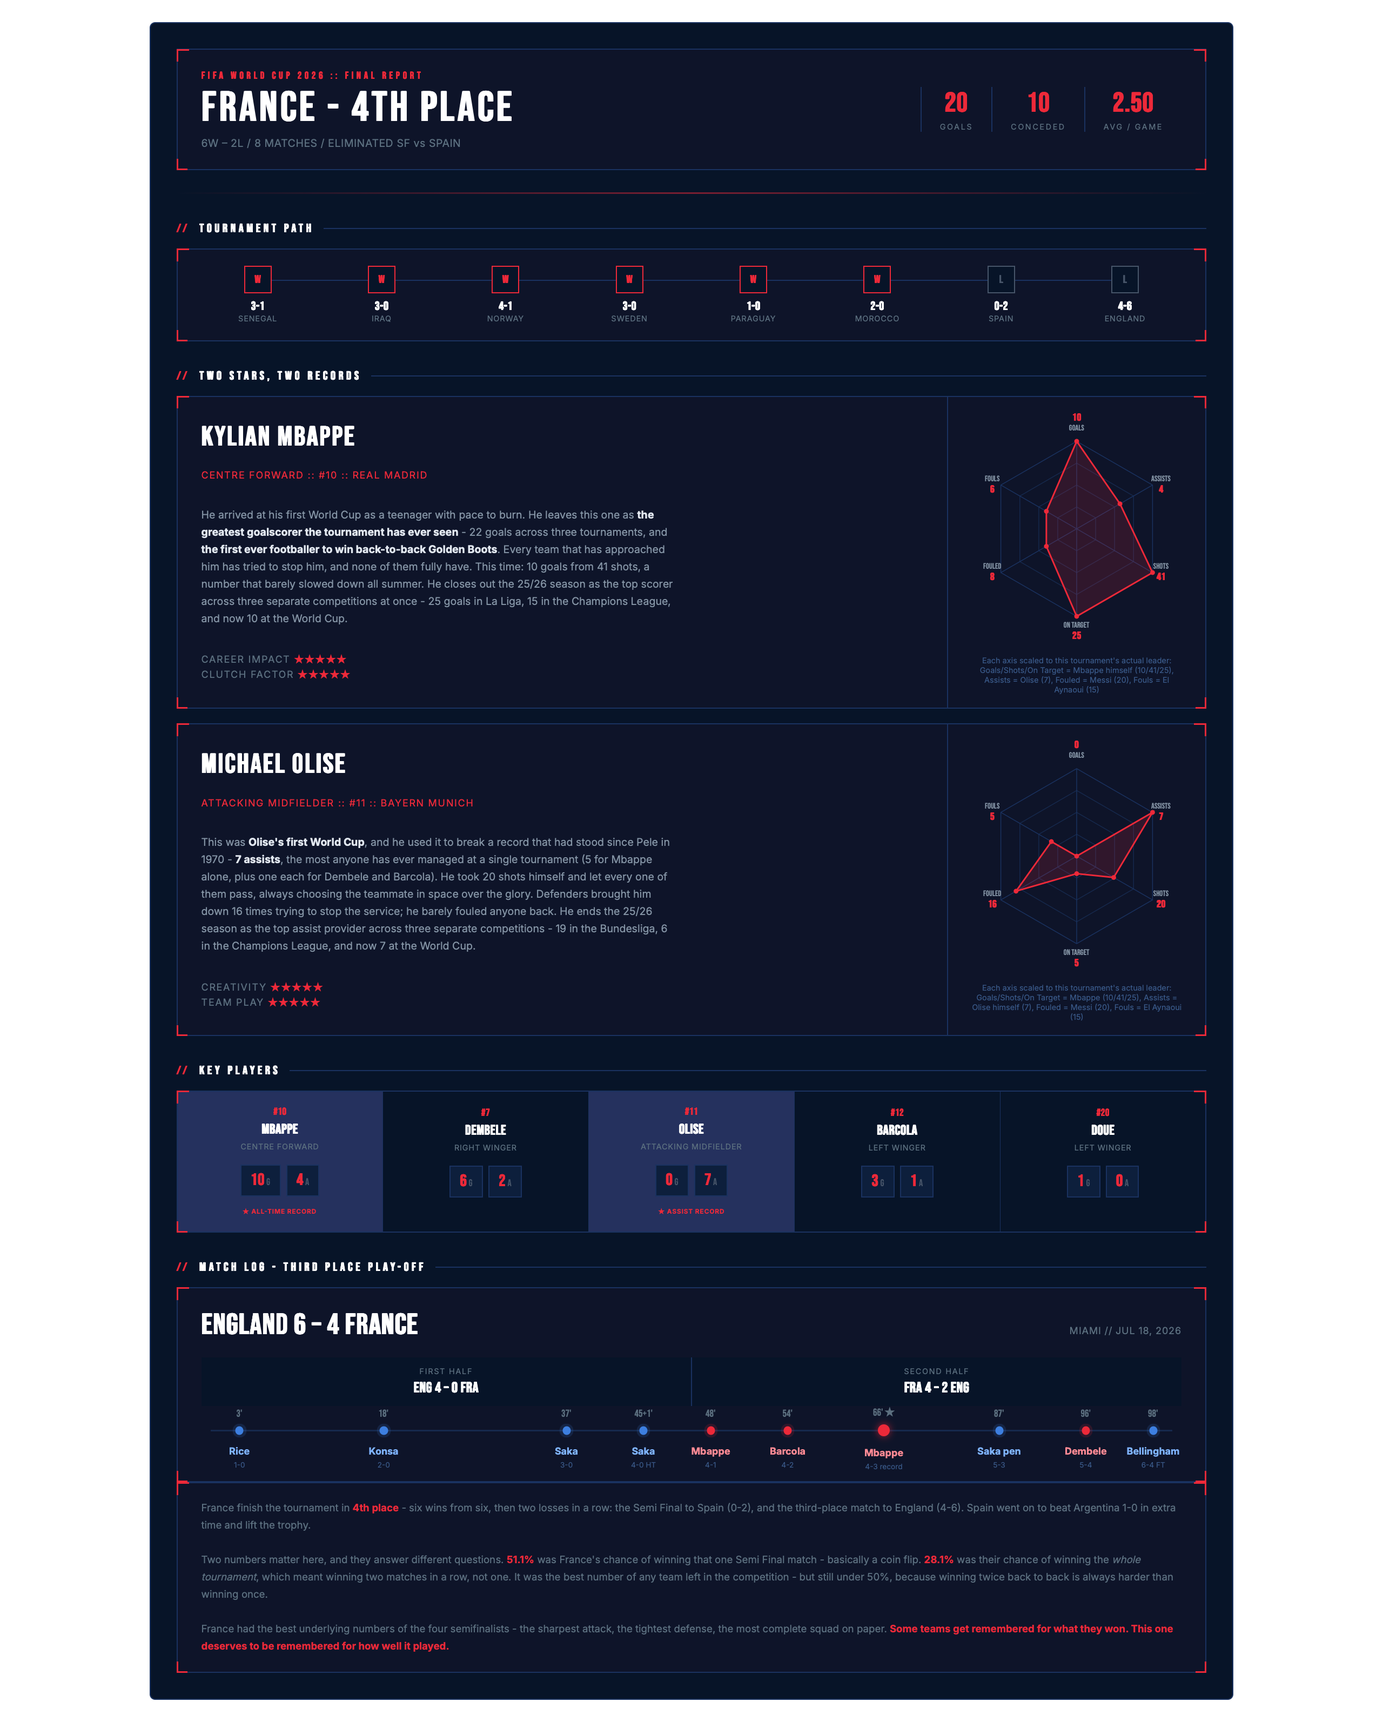
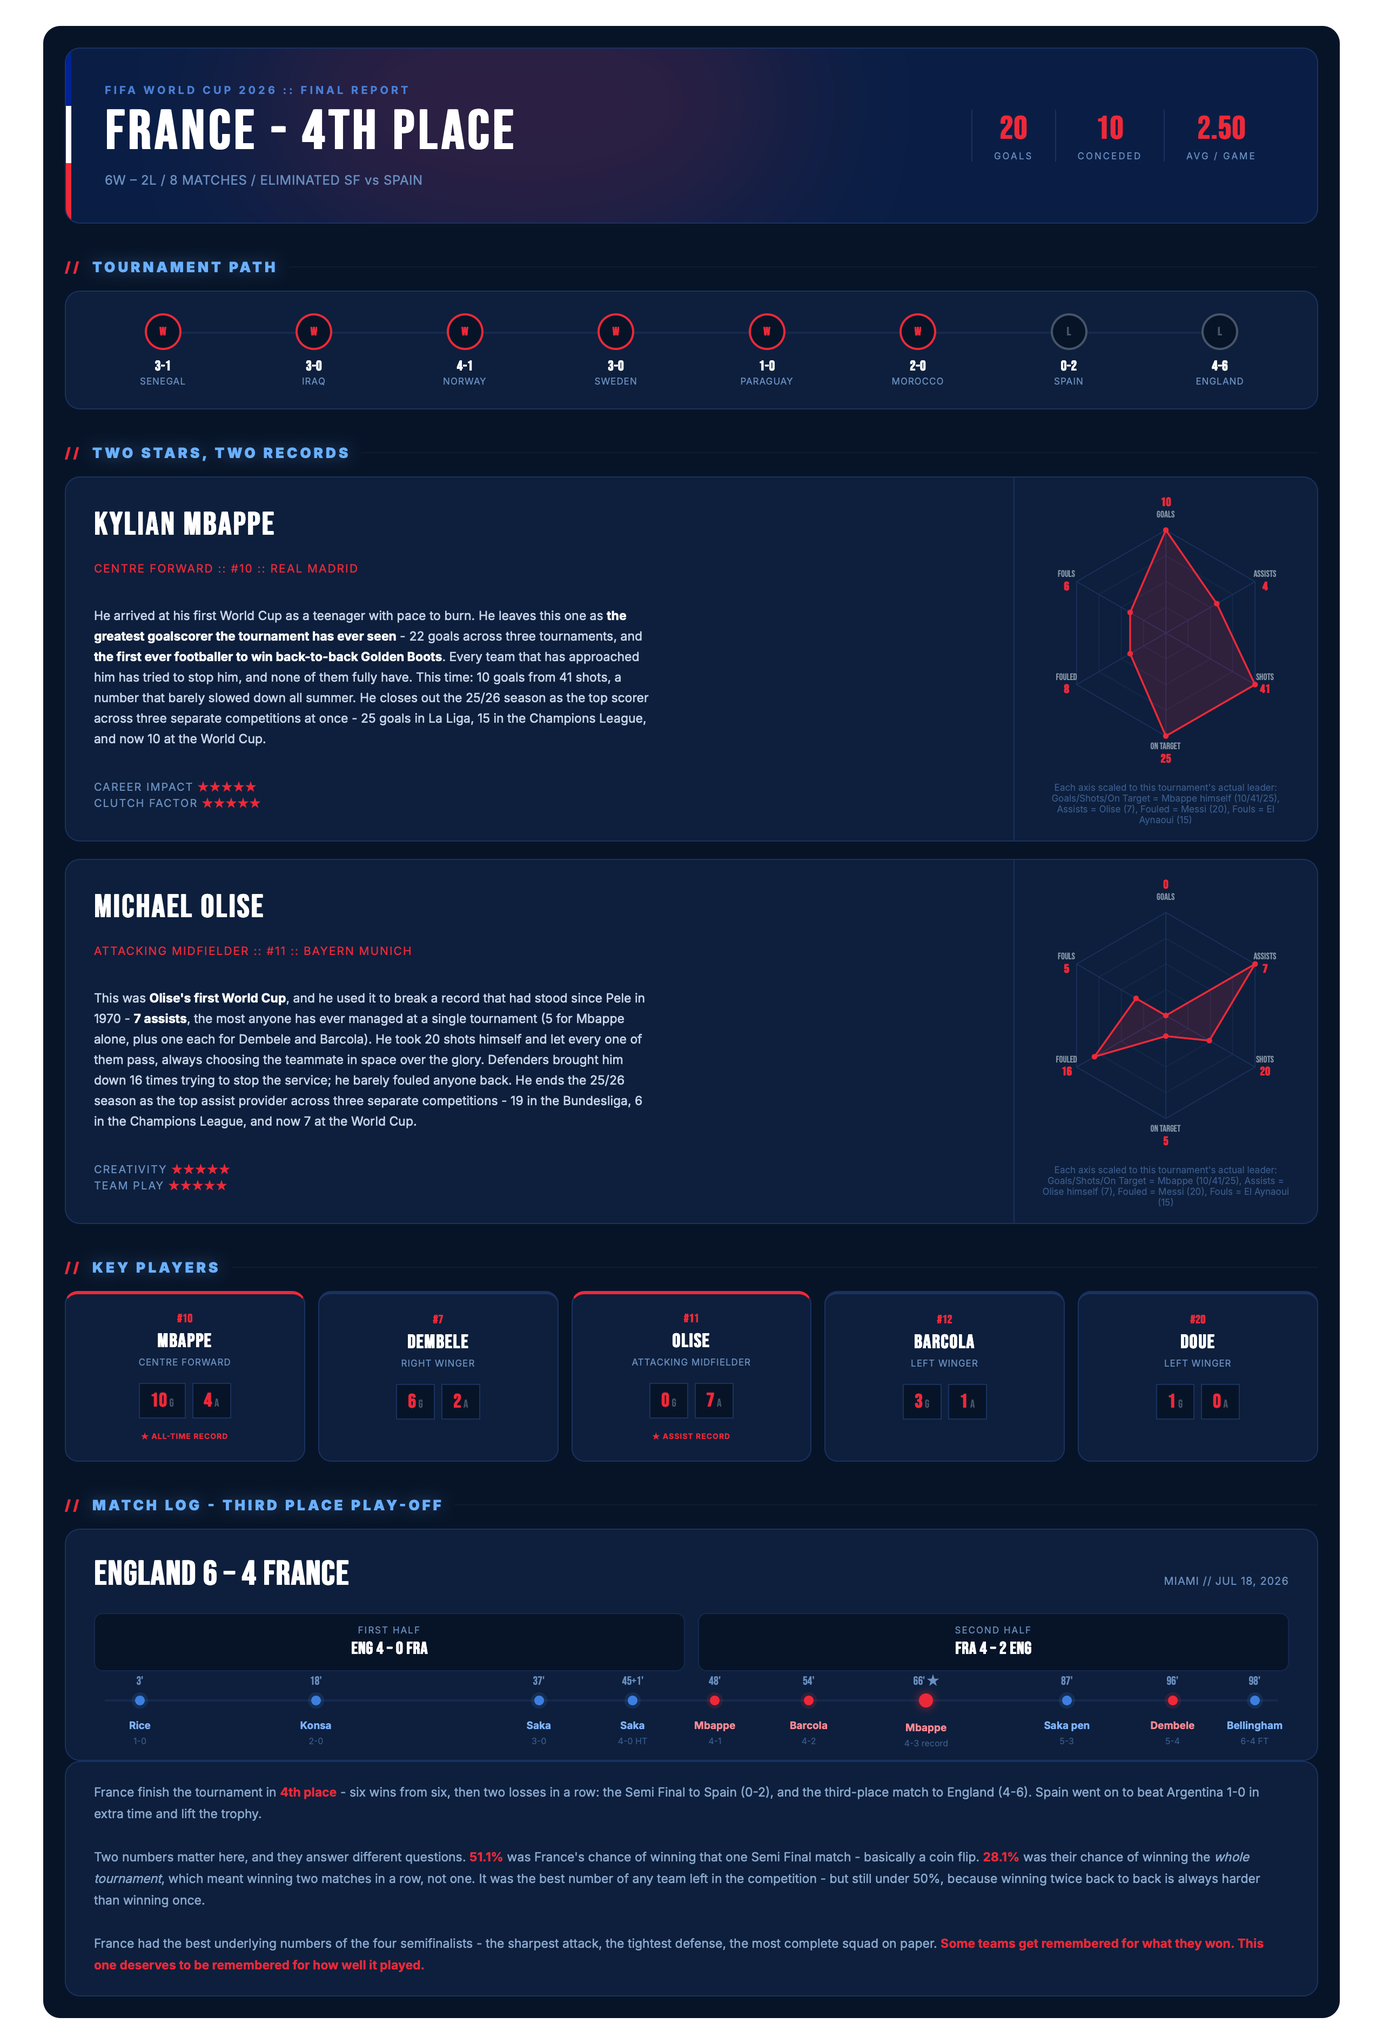
Fix font consistency in final_recap.html

diff --git a/final_recap.html b/final_recap.html
@@ -3,55 +3,52 @@
 <head>
 <meta charset="UTF-8">
 <title>France at the 2026 World Cup - Final Recap</title>
-<link href="https://fonts.googleapis.com/css2?family=Bebas+Neue&family=Inter:wght@400;500;600;700&display=swap" rel="stylesheet">
+<link href="https://fonts.googleapis.com/css2?family=Bebas+Neue&family=Inter:wght@300;400;600;700;800;900&display=swap" rel="stylesheet">
 <style>
 *{margin:0;padding:0;box-sizing:border-box}
 body{font-family:'Inter',sans-serif;background:transparent;padding:24px}
 .db{
   font-family:'Inter',sans-serif;
   background:#071428;
-  padding:28px;border-radius:6px;max-width:1180px;margin:0 auto;
-  border:1px solid #1a3260;
+  padding:20px;border-radius:16px;max-width:1200px;margin:0 auto;
 }
 .mono{font-family:'Bebas Neue',sans-serif}
 
-/* HUD FRAME - corner brackets on every panel */
-.frame{position:relative;background:rgba(237,41,57,.03);border:1px solid #1a3260}
-.frame::before,.frame::after,.frame .c3,.frame .c4{content:'';position:absolute;width:12px;height:12px;pointer-events:none}
-.frame::before{top:-1px;left:-1px;border-top:2px solid #ED2939;border-left:2px solid #ED2939}
-.frame::after{top:-1px;right:-1px;border-top:2px solid #ED2939;border-right:2px solid #ED2939}
-.frame .c3{bottom:-1px;left:-1px;border-bottom:2px solid #ED2939;border-left:2px solid #ED2939}
-.frame .c4{bottom:-1px;right:-1px;border-bottom:2px solid #ED2939;border-right:2px solid #ED2939}
+/* PANELS - rounded cards, matching dashboard.html / champion_predictor.html */
+.frame{background:#0d1f3c;border:1px solid #1a3260;border-radius:14px}
 
 /* HERO */
-.hero{padding:22px 26px;margin-bottom:24px;display:flex;align-items:center;justify-content:space-between}
-.hero-l .tag{font-family:'Bebas Neue',sans-serif;font-size:11px;font-weight:700;color:#ED2939;letter-spacing:3px;text-transform:uppercase}
-.hero-l .title{font-family:'Bebas Neue',sans-serif;font-weight:700;font-size:46px;color:#fff;letter-spacing:2px;line-height:1;margin-top:6px}
-.hero-l .sub{font-size:11.5px;color:#5c7080;margin-top:8px;letter-spacing:.3px}
-.hero-r{display:flex;gap:0}
+.hero{border-radius:14px;padding:32px 36px;margin-bottom:22px;position:relative;overflow:hidden;background:#0a1e45;display:flex;align-items:center;justify-content:space-between}
+.hero-glow{position:absolute;top:-100px;left:15%;width:500px;height:300px;background:#ED2939;border-radius:50%;opacity:.15;filter:blur(70px);pointer-events:none}
+.hero-stripe{position:absolute;top:0;left:0;bottom:0;width:5px;background:linear-gradient(180deg,#002395 33%,#fff 33% 66%,#ED2939 66%)}
+.hero-l{position:relative}
+.hero-l .tag{font-size:10px;font-weight:700;color:#4a7fd4;letter-spacing:2.5px;text-transform:uppercase}
+.hero-l .title{font-family:'Bebas Neue',sans-serif;font-weight:700;font-size:52px;color:#fff;letter-spacing:2px;line-height:1;margin-top:8px}
+.hero-l .sub{font-size:12px;color:#6a8fc0;margin-top:10px;letter-spacing:.3px}
+.hero-r{position:relative;display:flex;gap:0}
 .hero-stat{text-align:center;padding:0 20px;border-left:1px solid #1a3260}
 .hero-stat .n{font-family:'Bebas Neue',sans-serif;font-size:30px;font-weight:700;color:#ED2939}
-.hero-stat .l{font-size:8.5px;color:#5c7080;letter-spacing:1.5px;text-transform:uppercase;margin-top:2px}
-.scan-bar{height:2px;background:linear-gradient(90deg,transparent,#ED2939,transparent);margin-bottom:24px;opacity:.5}
+.hero-stat .l{font-size:8.5px;color:#6a8fc0;letter-spacing:1.5px;text-transform:uppercase;margin-top:2px}
+.scan-bar{display:none}
 
-.sec{font-family:'Bebas Neue',sans-serif;font-size:13px;font-weight:700;color:#fff;letter-spacing:3px;text-transform:uppercase;margin:30px 0 14px;display:flex;align-items:center;gap:10px}
-.sec::before{content:'//';color:#ED2939}
-.sec::after{content:'';flex:1;height:1px;background:#1a3260}
+.sec{font-size:13px;font-weight:900;color:#6ab0ff;letter-spacing:2.5px;text-transform:uppercase;margin:32px 0 14px;display:flex;align-items:center;gap:10px;text-shadow:0 0 14px rgba(106,176,255,.35)}
+.sec::before{content:'//';color:#ED2939;font-weight:900;text-shadow:none}
+.sec::after{content:'';flex:1;height:1px;background:#ffffff08}
 
 /* JOURNEY */
-.journey{display:flex;padding:18px 20px}
+.journey{display:flex;padding:20px}
 .j-stage{flex:1;text-align:center;position:relative}
-.j-stage:not(:last-child)::after{content:'';position:absolute;top:15px;left:50%;width:100%;height:1px;background:#1a3260}
-.j-node{position:relative;z-index:2;width:30px;height:30px;margin:0 auto 6px;display:flex;align-items:center;justify-content:center;background:#071428;border:1.5px solid #ED2939;color:#ED2939;font-family:'Bebas Neue',sans-serif;font-weight:700;font-size:12px}
+.j-stage:not(:last-child)::after{content:'';position:absolute;top:17px;left:50%;width:100%;height:2px;background:#16294d;z-index:1}
+.j-node{position:relative;z-index:2;width:34px;height:34px;border-radius:50%;margin:0 auto 7px;display:flex;align-items:center;justify-content:center;background:#071428;border:2px solid #ED2939;color:#ED2939;font-family:'Bebas Neue',sans-serif;font-weight:700;font-size:11px}
 .j-node.loss{border-color:#475569;color:#475569}
 .j-score{font-family:'Bebas Neue',sans-serif;font-weight:700;font-size:13px;color:#fff}
-.j-opp{font-size:8.5px;color:#5c7080;margin-top:1px;text-transform:uppercase;letter-spacing:.5px}
+.j-opp{font-size:8.5px;color:#6a8fc0;margin-top:1px;text-transform:uppercase;letter-spacing:.5px}
 
 /* PLAYER SPOTLIGHT (radar) */
 .spotlight{display:grid;grid-template-columns:1fr 280px;gap:0}
 .h2h{padding:22px 26px}
 .h2h-row{display:grid;grid-template-columns:1fr 90px 1fr;align-items:center;gap:12px;margin-bottom:14px}
-.h2h-bar{height:16px;background:#0d1420;border:1px solid #16294d;border-radius:3px;overflow:hidden;position:relative}
+.h2h-bar{height:16px;background:#071428;border:1px solid #16294d;border-radius:3px;overflow:hidden;position:relative}
 .h2h-fill{height:100%;position:absolute;top:0}
 .h2h-fill.mb{background:#ED2939;right:0}
 .h2h-fill.ol{background:#7fb4ff;left:0}
@@ -66,33 +63,33 @@ body{font-family:'Inter',sans-serif;background:transparent;padding:24px}
 
 /* CLEAN STAT TILES - no charts, just numbers */
 .stat-tiles{display:flex;gap:10px;margin-top:16px;padding-top:16px;border-top:1px solid #16294d}
-.stat-tile{flex:1;text-align:center;background:#0d1420;border:1px solid #16294d;border-radius:6px;padding:10px 4px}
+.stat-tile{flex:1;text-align:center;background:#071428;border:1px solid #16294d;border-radius:8px;padding:10px 4px}
 .stat-tile .n{font-family:'Bebas Neue',sans-serif;font-size:26px;color:#ED2939;line-height:1}
-.stat-tile .l{font-size:8.5px;color:#5c7080;text-transform:uppercase;letter-spacing:.5px;margin-top:3px}
+.stat-tile .l{font-size:8.5px;color:#6a8fc0;text-transform:uppercase;letter-spacing:.5px;margin-top:3px}
 .spot-info{padding:22px 26px;border-right:1px solid #1a3260;display:flex;flex-direction:column;justify-content:center;gap:14px}
 .spot-name{font-family:'Bebas Neue',sans-serif;font-size:30px;font-weight:700;color:#fff;letter-spacing:1px}
 .spot-role{font-size:10.5px;color:#ED2939;letter-spacing:1px;text-transform:uppercase;margin-top:2px}
-.spot-desc{font-size:11.5px;color:#8494a5;line-height:1.7;margin-top:14px;max-width:520px}
-.spot-desc b{color:#e2e8f0}
-.stars{margin-top:14px;font-size:10px;color:#5c7080;letter-spacing:1px}
+.spot-desc{font-size:11.5px;color:#c8d4e8;line-height:1.7;margin-top:14px;max-width:520px}
+.spot-desc b{color:#fff}
+.stars{margin-top:14px;font-size:10px;color:#6a8fc0;letter-spacing:1px}
 .stars .on{color:#ED2939}
 .spot-radar{padding:14px;display:flex;flex-direction:column;align-items:center;justify-content:center;gap:8px}
 .stat-bars{width:100%;padding:18px 26px;display:flex;flex-direction:column;gap:13px}
 .sb-row{display:grid;grid-template-columns:70px 1fr 34px;align-items:center;gap:10px}
 .sb-label{font-size:10px;color:#8494a5;text-transform:uppercase;letter-spacing:.5px;text-align:right}
-.sb-track{background:#0d1420;border:1px solid #16294d;border-radius:3px;height:12px;overflow:hidden}
+.sb-track{background:#071428;border:1px solid #16294d;border-radius:3px;height:12px;overflow:hidden}
 .sb-fill{height:100%;background:#ED2939;border-radius:2px}
 .sb-val{font-family:'Bebas Neue',sans-serif;font-size:16px;color:#fff}
 
-/* SQUAD */
-.squad{display:grid;grid-template-columns:repeat(5,1fr);gap:1px;background:#1a3260}
-.sq-card{background:#071428;padding:16px 10px;text-align:center;display:flex;flex-direction:column;justify-content:center;gap:4px}
-.sq-card.key{background:rgba(237,41,57,.05)}
-.sq-name{font-family:'Bebas Neue',sans-serif;font-size:15px;font-weight:700;color:#fff}
+/* SQUAD - rounded cards with gaps, matching team-card grid pattern */
+.squad{display:grid;grid-template-columns:repeat(5,1fr);gap:12px;background:none;border:none;padding:0}
+.sq-card{background:#0d1f3c;border:1px solid #1a3260;border-top:3px solid #1a3260;border-radius:12px;padding:16px 10px;text-align:center;display:flex;flex-direction:column;justify-content:center;gap:4px}
+.sq-card.key{background:#0d1f3c;border-top-color:#ED2939}
+.sq-name{font-family:'Bebas Neue',sans-serif;font-size:18px;font-weight:700;color:#fff;letter-spacing:.5px}
 .sq-num{font-family:'Bebas Neue',sans-serif;font-size:11px;color:#ED2939;font-weight:700}
-.sq-pos{font-size:8.5px;color:#5c7080;text-transform:uppercase;letter-spacing:.5px;margin-bottom:10px}
+.sq-pos{font-size:8.5px;color:#6a8fc0;text-transform:uppercase;letter-spacing:.5px;margin-bottom:10px}
 .sq-vals{display:flex;justify-content:center;gap:6px}
-.sq-pill{background:#0d1f3c;border:1px solid #1a3260;padding:5px 10px;font-family:'Bebas Neue',sans-serif;font-size:18px;font-weight:700;color:#ED2939}
+.sq-pill{background:#071428;border:1px solid #1a3260;padding:5px 10px;font-family:'Bebas Neue',sans-serif;font-size:18px;font-weight:700;color:#ED2939}
 .sq-pill span{color:#475569;font-size:10.5px;font-weight:400;margin-left:2px}
 .sq-flag{font-size:7px;color:#ED2939;letter-spacing:.5px;margin-top:8px;font-weight:700}
 
@@ -100,17 +97,17 @@ body{font-family:'Inter',sans-serif;background:transparent;padding:24px}
 .match{padding:22px 26px}
 .match-top{display:flex;justify-content:space-between;align-items:baseline;margin-bottom:4px}
 .match-score{font-family:'Bebas Neue',sans-serif;font-size:32px;font-weight:700;color:#fff}
-.match-meta{font-size:10px;color:#5c7080;text-transform:uppercase;letter-spacing:.5px}
-.halves{display:flex;gap:1px;background:#1a3260;margin:16px 0}
-.half{flex:1;background:#071428;padding:10px 14px;text-align:center}
-.half-lbl{font-size:8.5px;color:#5c7080;text-transform:uppercase;letter-spacing:1px}
+.match-meta{font-size:10px;color:#6a8fc0;text-transform:uppercase;letter-spacing:.5px}
+.halves{display:flex;gap:12px;margin:16px 0}
+.half{flex:1;background:#071428;border:1px solid #16294d;border-radius:8px;padding:10px 14px;text-align:center}
+.half-lbl{font-size:8.5px;color:#6a8fc0;text-transform:uppercase;letter-spacing:1px}
 .half-sc{font-family:'Bebas Neue',sans-serif;font-size:16px;font-weight:700;color:#fff;margin-top:3px}
 .gl{display:grid;grid-template-columns:1fr 1fr;gap:0 24px}
-.gl-h{font-size:8.5px;color:#5c7080;text-transform:uppercase;letter-spacing:1px;margin:10px 0 4px;grid-column:1/-1}
+.gl-h{font-size:8.5px;color:#6a8fc0;text-transform:uppercase;letter-spacing:1px;margin:10px 0 4px;grid-column:1/-1}
 .g-row{display:flex;align-items:center;gap:8px;padding:4px 0;font-size:11px;border-top:1px solid #16294d}
 .g-row:nth-child(-n+2){border-top:none}
 
-/* NEW TIMELINE LOG */
+/* TIMELINE LOG */
 .tlog{margin-top:16px}
 .tl-row{display:grid;grid-template-columns:50px 3px 1fr 60px;align-items:center;gap:14px;padding:9px 0;border-top:1px solid #16294d;position:relative}
 .tl-row:first-child{border-top:none}
@@ -122,36 +119,37 @@ body{font-family:'Inter',sans-serif;background:transparent;padding:24px}
 .chip.eng{background:#3d7fe0;box-shadow:0 0 0 3px rgba(61,127,224,.15)}
 .chip.fra{background:#ED2939;box-shadow:0 0 0 3px rgba(237,41,57,.15)}
 .chip.rec{width:13px;height:13px;box-shadow:0 0 10px rgba(237,41,57,.7)}
-.chip-min{position:absolute;top:-20px;left:50%;transform:translateX(-50%);font-family:'Bebas Neue',sans-serif;font-size:11px;color:#5c7080;white-space:nowrap}
+.chip-min{position:absolute;top:-20px;left:50%;transform:translateX(-50%);font-family:'Bebas Neue',sans-serif;font-size:11px;color:#6a8fc0;white-space:nowrap}
 .chip-name{position:absolute;bottom:-24px;left:50%;transform:translateX(-50%);font-size:9.5px;font-weight:700;color:#fff;white-space:nowrap}
 .chip-name.eng-t{color:#7fb4ff}
 .chip-name.fra-t{color:#ff8a94}
 .chip-sc{position:absolute;bottom:-38px;left:50%;transform:translateX(-50%);font-size:8px;color:#3a5a8a;white-space:nowrap}
-.tl-min{font-family:'Bebas Neue',sans-serif;font-size:17px;color:#5c7080;text-align:right}
+.tl-min{font-family:'Bebas Neue',sans-serif;font-size:17px;color:#6a8fc0;text-align:right}
 .tl-bar{align-self:stretch;border-radius:2px}
 .tl-bar.eng{background:#3d7fe0}
 .tl-bar.fra{background:#ED2939}
 .tl-mid{display:flex;align-items:baseline;gap:8px}
 .tl-name{font-weight:800;font-size:13px;color:#fff}
 .tl-name.rec{color:#ED2939}
-.tl-tag{font-size:8.5px;color:#5c7080;letter-spacing:.5px}
-.tl-assist{font-size:10.5px;color:#5c7080}
-.tl-assist b{color:#8494a5}
+.tl-tag{font-size:8.5px;color:#6a8fc0;letter-spacing:.5px}
+.tl-assist{font-size:10.5px;color:#6a8fc0}
+.tl-assist b{color:#c8d4e8}
 .tl-score{font-family:'Bebas Neue',sans-serif;font-size:16px;color:#fff;text-align:right}
-.tl-score span{color:#5c7080;font-size:10px;margin-left:3px}
-.g-t{width:32px;color:#475569;font-family:'Bebas Neue',sans-serif}
-.g-n{font-weight:600;color:#e2e8f0}
-.g-a{color:#5c7080;font-size:9.5px}
+.tl-score span{color:#6a8fc0;font-size:10px;margin-left:3px}
+.g-t{width:32px;color:#6a8fc0;font-family:'Bebas Neue',sans-serif}
+.g-n{font-weight:600;color:#c8d4e8}
+.g-a{color:#6a8fc0;font-size:9.5px}
 
-.closing{padding:18px 26px;font-size:11px;color:#5c7080;line-height:1.8}
+.closing{padding:18px 26px;font-size:11.5px;color:#8aa9cf;line-height:1.8}
 .closing b{color:#ED2939}
 </style>
 </head>
 <body>
 <div class="db">
 
-  <div class="hero frame"><span class="c3"></span><span class="c4"></span>
-    <div class="hero-l">
+  <div class="hero frame">
+    <div class="hero-stripe"></div>
+    <div class="hero-glow"></div>    <div class="hero-l">
       <div class="tag">FIFA World Cup 2026 :: Final Report</div>
       <div class="title">FRANCE - 4TH PLACE</div>
       <div class="sub">6W – 2L / 8 MATCHES / ELIMINATED SF vs SPAIN</div>
@@ -165,7 +163,7 @@ body{font-family:'Inter',sans-serif;background:transparent;padding:24px}
   <div class="scan-bar"></div>
 
   <div class="sec">Tournament Path</div>
-  <div class="journey frame"><span class="c3"></span><span class="c4"></span>
+  <div class="journey frame">
     <div class="j-stage"><div class="j-node">W</div><div class="j-score">3-1</div><div class="j-opp">Senegal</div></div>
     <div class="j-stage"><div class="j-node">W</div><div class="j-score">3-0</div><div class="j-opp">Iraq</div></div>
     <div class="j-stage"><div class="j-node">W</div><div class="j-score">4-1</div><div class="j-opp">Norway</div></div>
@@ -177,7 +175,7 @@ body{font-family:'Inter',sans-serif;background:transparent;padding:24px}
   </div>
 
   <div class="sec">Two Stars, Two Records</div>
-  <div class="spotlight frame"><span class="c3"></span><span class="c4"></span>
+  <div class="spotlight frame">
     <div class="spot-info">
       <div class="spot-name">KYLIAN MBAPPE</div>
       <div class="spot-role">Centre Forward :: #10 :: Real Madrid</div>
@@ -221,7 +219,7 @@ body{font-family:'Inter',sans-serif;background:transparent;padding:24px}
   </div>
 
   
-  <div class="spotlight frame" style="margin-top:16px"><span class="c3"></span><span class="c4"></span>
+  <div class="spotlight frame" style="margin-top:16px">
     <div class="spot-info">
       <div class="spot-name">MICHAEL OLISE</div>
       <div class="spot-role">Attacking Midfielder :: #11 :: Bayern Munich</div>
@@ -265,7 +263,7 @@ body{font-family:'Inter',sans-serif;background:transparent;padding:24px}
   </div>
 
   <div class="sec">Key Players</div>
-  <div class="squad frame"><span class="c3"></span><span class="c4"></span>
+  <div class="squad frame">
     <div class="sq-card key"><div class="sq-num">#10</div><div class="sq-name">MBAPPE</div><div class="sq-pos">Centre Forward</div><div class="sq-vals"><div class="sq-pill">10<span>G</span></div><div class="sq-pill">4<span>A</span></div></div><div class="sq-flag">★ ALL-TIME RECORD</div></div>
     <div class="sq-card"><div class="sq-num">#7</div><div class="sq-name">DEMBELE</div><div class="sq-pos">Right Winger</div><div class="sq-vals"><div class="sq-pill">6<span>G</span></div><div class="sq-pill">2<span>A</span></div></div><div class="sq-flag" style="visibility:hidden">·</div></div>
     <div class="sq-card key"><div class="sq-num">#11</div><div class="sq-name">OLISE</div><div class="sq-pos">Attacking Midfielder</div><div class="sq-vals"><div class="sq-pill">0<span>G</span></div><div class="sq-pill">7<span>A</span></div></div><div class="sq-flag">★ ASSIST RECORD</div></div>
@@ -274,7 +272,7 @@ body{font-family:'Inter',sans-serif;background:transparent;padding:24px}
   </div>
 
   <div class="sec">Match Log - Third Place Play-Off</div>
-  <div class="match frame"><span class="c3"></span><span class="c4"></span>
+  <div class="match frame">
     <div class="match-top">
       <div class="match-score">ENGLAND 6 – 4 FRANCE</div>
       <div class="match-meta">Miami // Jul 18, 2026</div>
@@ -297,7 +295,7 @@ body{font-family:'Inter',sans-serif;background:transparent;padding:24px}
     </div>
   </div>
 
-  <div class="closing frame"><span class="c3"></span><span class="c4"></span>
+  <div class="closing frame">
     France finish the tournament in <b>4th place</b> - six wins from six, then two losses in a row: the Semi Final to Spain (0-2), and the third-place match to England (4-6). Spain went on to beat Argentina 1-0 in extra time and lift the trophy.<br><br>
     Two numbers matter here, and they answer different questions. <b>51.1%</b> was France's chance of winning that one Semi Final match - basically a coin flip. <b>28.1%</b> was their chance of winning the <i>whole tournament</i>, which meant winning two matches in a row, not one. It was the best number of any team left in the competition - but still under 50%, because winning twice back to back is always harder than winning once.<br><br>
     France had the best underlying numbers of the four semifinalists - the sharpest attack, the tightest defense, the most complete squad on paper. <b>Some teams get remembered for what they won. This one deserves to be remembered for how well it played.</b>
